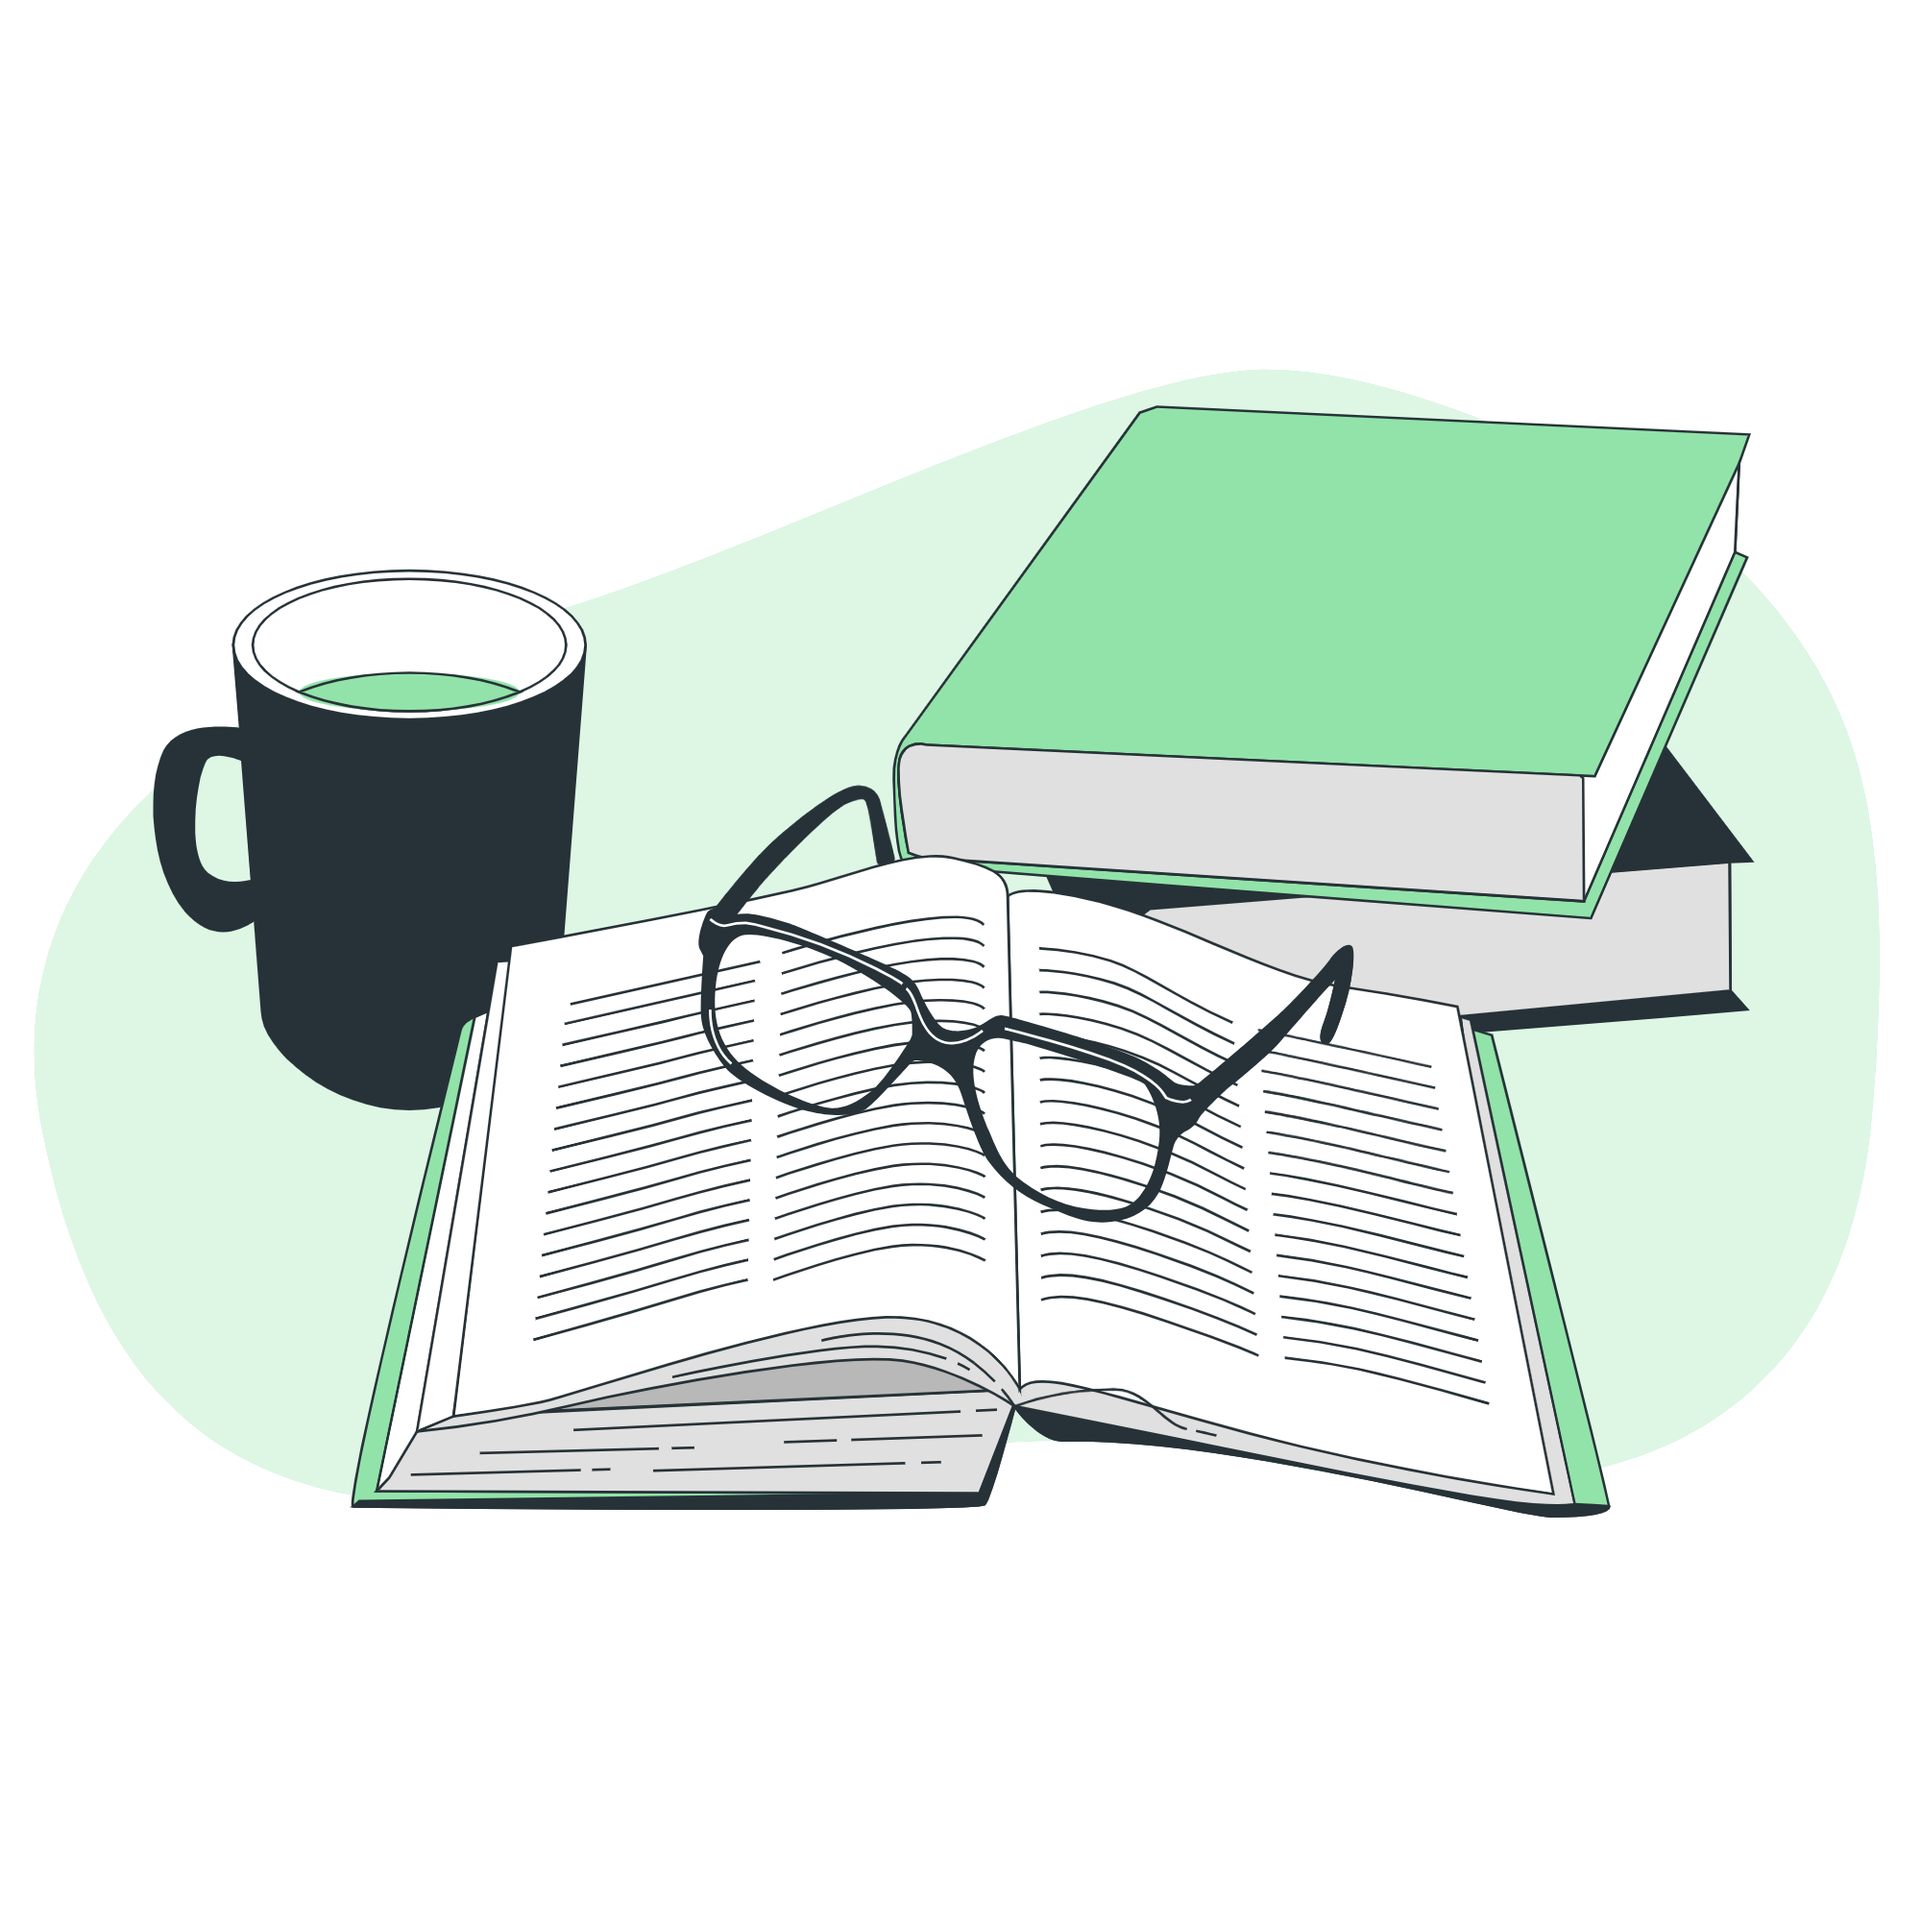
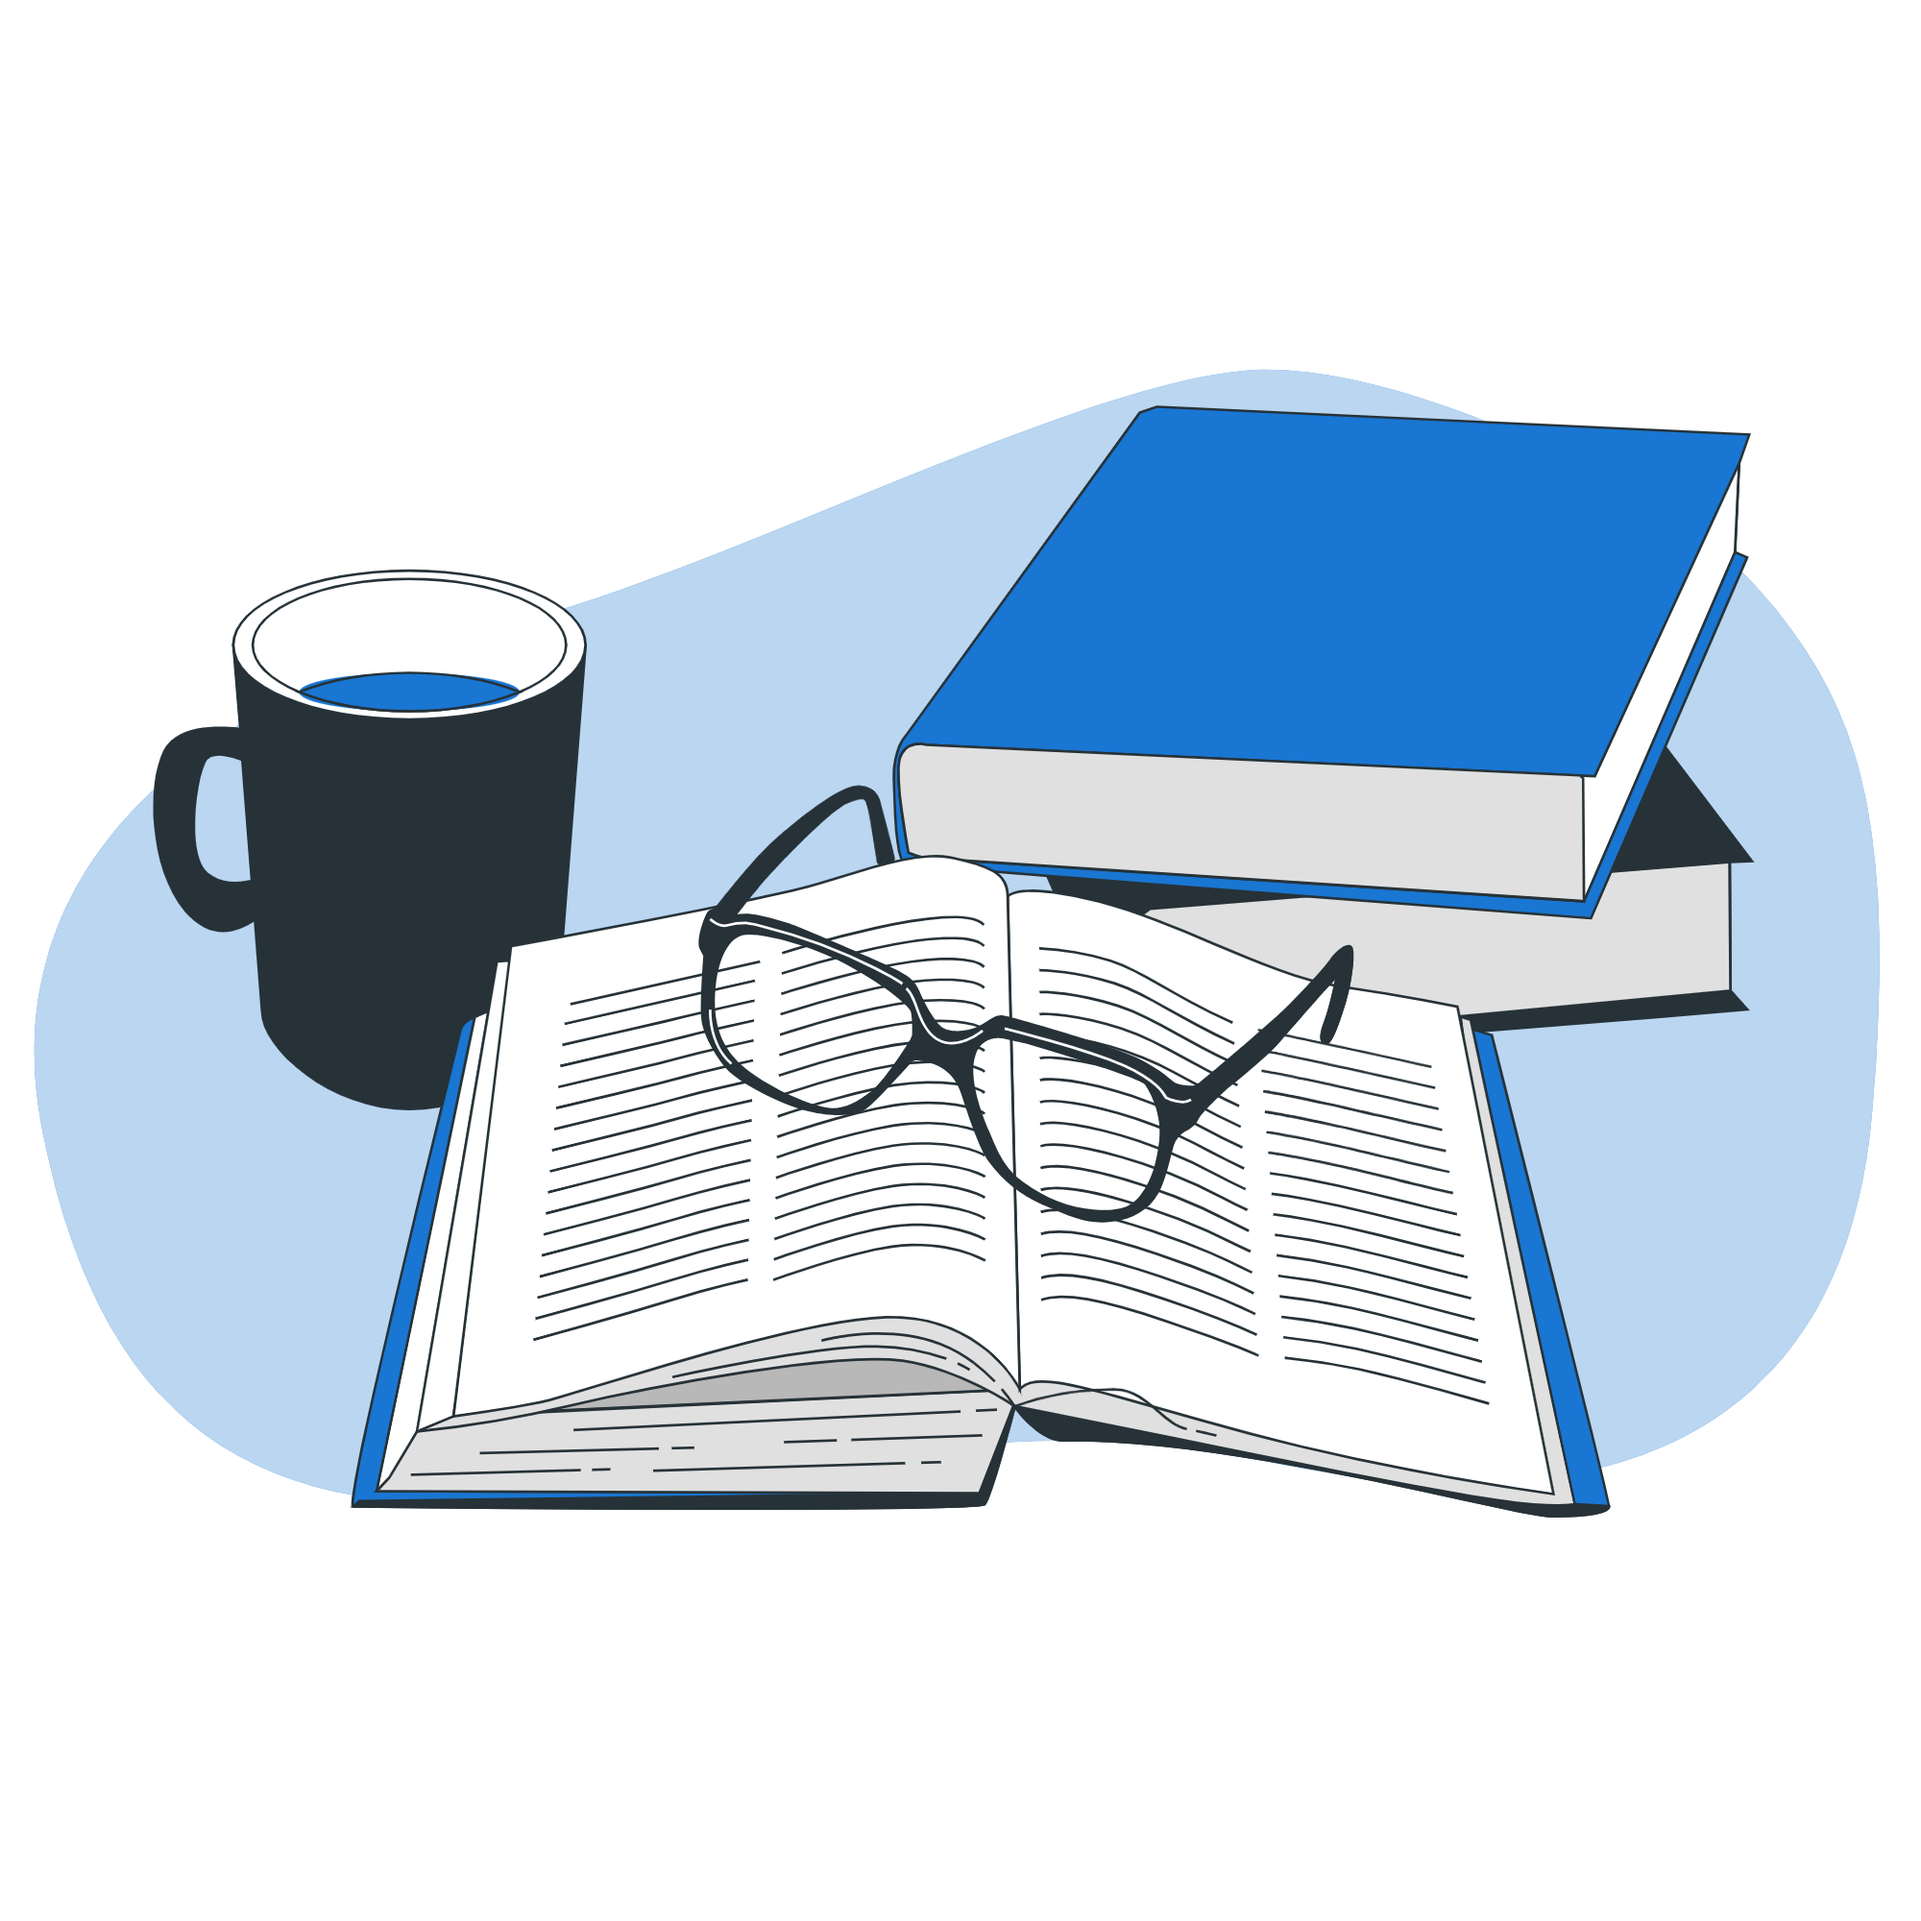
Finish Login Screen UI

diff --git a/app/(auth)/index.jsx b/app/(auth)/index.jsx
@@ -1,10 +1,128 @@
-import { View, Text } from "react-native";
-import React from "react";
+import {
+  View,
+  Text,
+  Image,
+  TextInput,
+  TouchableOpacity,
+  ActivityIndicator,
+  KeyboardAvoidingView,
+  Platform,
+} from "react-native";
+import React, { useState } from "react";
+
+//Expo
+import { Ionicons } from "@expo/vector-icons";
+import { Link } from "expo-router";
+
+// Assets
+import styles from "../../assets/styles/login.styles";
+
+// Constants
+import COLORS from "../../constants/colors";
 
 export default function Login() {
+  const [email, setEmail] = useState("");
+  const [password, setPassword] = useState("");
+  const [showPassword, setShowPassword] = useState(false);
+  const [isLoading, setIsLoading] = useState(false);
+
+  const handleLogin = () => {};
+
   return (
-    <View>
-      <Text>LoginScreen</Text>
-    </View>
+    <KeyboardAvoidingView
+      style={{ flex: 1 }}
+      behavior={Platform.OS === "ios" ? "padding" : "height"}
+    >
+      <View style={styles.container}>
+        {/* ILLUSTRATION */}
+        <View style={styles.topIllustration}>
+          <Image
+            source={require("../../assets/images/i.png")}
+            style={styles.illustrationImage}
+            resizeMode="contain"
+          />
+        </View>
+        <View style={styles.card}>
+          <View style={styles.formContainer}>
+            {/* EMAIL */}
+            <View style={styles.inputGroup}>
+              <Text style={styles.label}>Email</Text>
+              <View style={styles.inputContainer}>
+                <Ionicons
+                  name="mail-outline"
+                  size={20}
+                  color={COLORS.primary}
+                  style={styles.inputIcon}
+                />
+                <TextInput
+                  style={styles.input}
+                  placeholder="Enter your email"
+                  placeholderTextColor={COLORS.placeholderText}
+                  value={email}
+                  onChangeText={setEmail}
+                  keyboardType="email-address"
+                  autoCapitalize="none"
+                />
+              </View>
+            </View>
+
+            {/* PASSWORD */}
+            <View style={styles.inputGroup}>
+              <Text style={styles.label}>Password</Text>
+              <View style={styles.inputContainer}>
+                {/* LEFT ICON */}
+                <Ionicons
+                  name="lock-closed-outline"
+                  size={20}
+                  color={COLORS.primary}
+                  style={styles.inputIcon}
+                />
+                <TextInput
+                  style={styles.input}
+                  placeholder="Enter your password"
+                  placeholderTextColor={COLORS.placeholderText}
+                  value={password}
+                  onChangeText={setPassword}
+                  secureTextEntry={!showPassword}
+                />
+
+                <TouchableOpacity
+                  onPress={() => setShowPassword(!showPassword)}
+                  style={styles.eyeIcon}
+                >
+                  <Ionicons
+                    name={showPassword ? "eye-outline" : "eye-off-outline"}
+                    size={20}
+                    color={COLORS.primary}
+                  />
+                </TouchableOpacity>
+              </View>
+            </View>
+
+            <TouchableOpacity
+              style={styles.button}
+              onPress={handleLogin}
+              disabled={isLoading}
+            >
+              {isLoading ? (
+                <ActivityIndicator color={"#fff"} />
+              ) : (
+                <Text style={styles.buttonText}>Login</Text>
+              )}
+            </TouchableOpacity>
+
+            {/* FOOTER */}
+            <View style={styles.footer}>
+              <Text style={styles.footerText}>Don't have an account?</Text>
+              <Link href={"/signup"} asChild>
+                <TouchableOpacity>
+                  <Text style={styles.link}>Sign Up</Text>
+                </TouchableOpacity>
+              </Link>
+            </View>
+          </View>
+        </View>
+      </View>
+    </KeyboardAvoidingView>
   );
 }

diff --git a/constants/colors.js b/constants/colors.js
@@ -1,16 +1,16 @@
-const COLORS = {
-  primary: "#4CAF50",
-  textPrimary: "#2e5a2e",
-  textSecondary: "#688f68",
-  textDark: "#1b361b",
-  placeholderText: "#767676",
-  background: "#e8f5e9",
-  cardBackground: "#f1f8f2",
-  inputBackground: "#f4faf5",
-  border: "#c8e6c9",
-  white: "#ffffff",
-  black: "#000000",
-};
+// const COLORS = {
+//   primary: "#4CAF50",
+//   textPrimary: "#2e5a2e",
+//   textSecondary: "#688f68",
+//   textDark: "#1b361b",
+//   placeholderText: "#767676",
+//   background: "#e8f5e9",
+//   cardBackground: "#f1f8f2",
+//   inputBackground: "#f4faf5",
+//   border: "#c8e6c9",
+//   white: "#ffffff",
+//   black: "#000000",
+// };
 
 // RETRO
 /*
@@ -30,21 +30,20 @@ const COLORS = {
   */
 
 // OCEAN
-/*
-  const COLORS = {
-    primary: "#1976D2", 
-    textPrimary: "#1a4971",
-    textSecondary: "#6d93b8", 
-    textDark: "#0d2b43", 
-    placeholderText: "#767676",
-    background: "#e3f2fd", 
-    cardBackground: "#f5f9ff",
-    inputBackground: "#f0f8ff", 
-    border: "#bbdefb",
-    white: "#ffffff",
-    black: "#000000",
-  };
-  */
+
+const COLORS = {
+  primary: "#1976D2",
+  textPrimary: "#1a4971",
+  textSecondary: "#6d93b8",
+  textDark: "#0d2b43",
+  placeholderText: "#767676",
+  background: "#e3f2fd",
+  cardBackground: "#f5f9ff",
+  inputBackground: "#f0f8ff",
+  border: "#bbdefb",
+  white: "#ffffff",
+  black: "#000000",
+};
 
 // BLOSSOM
 /*
